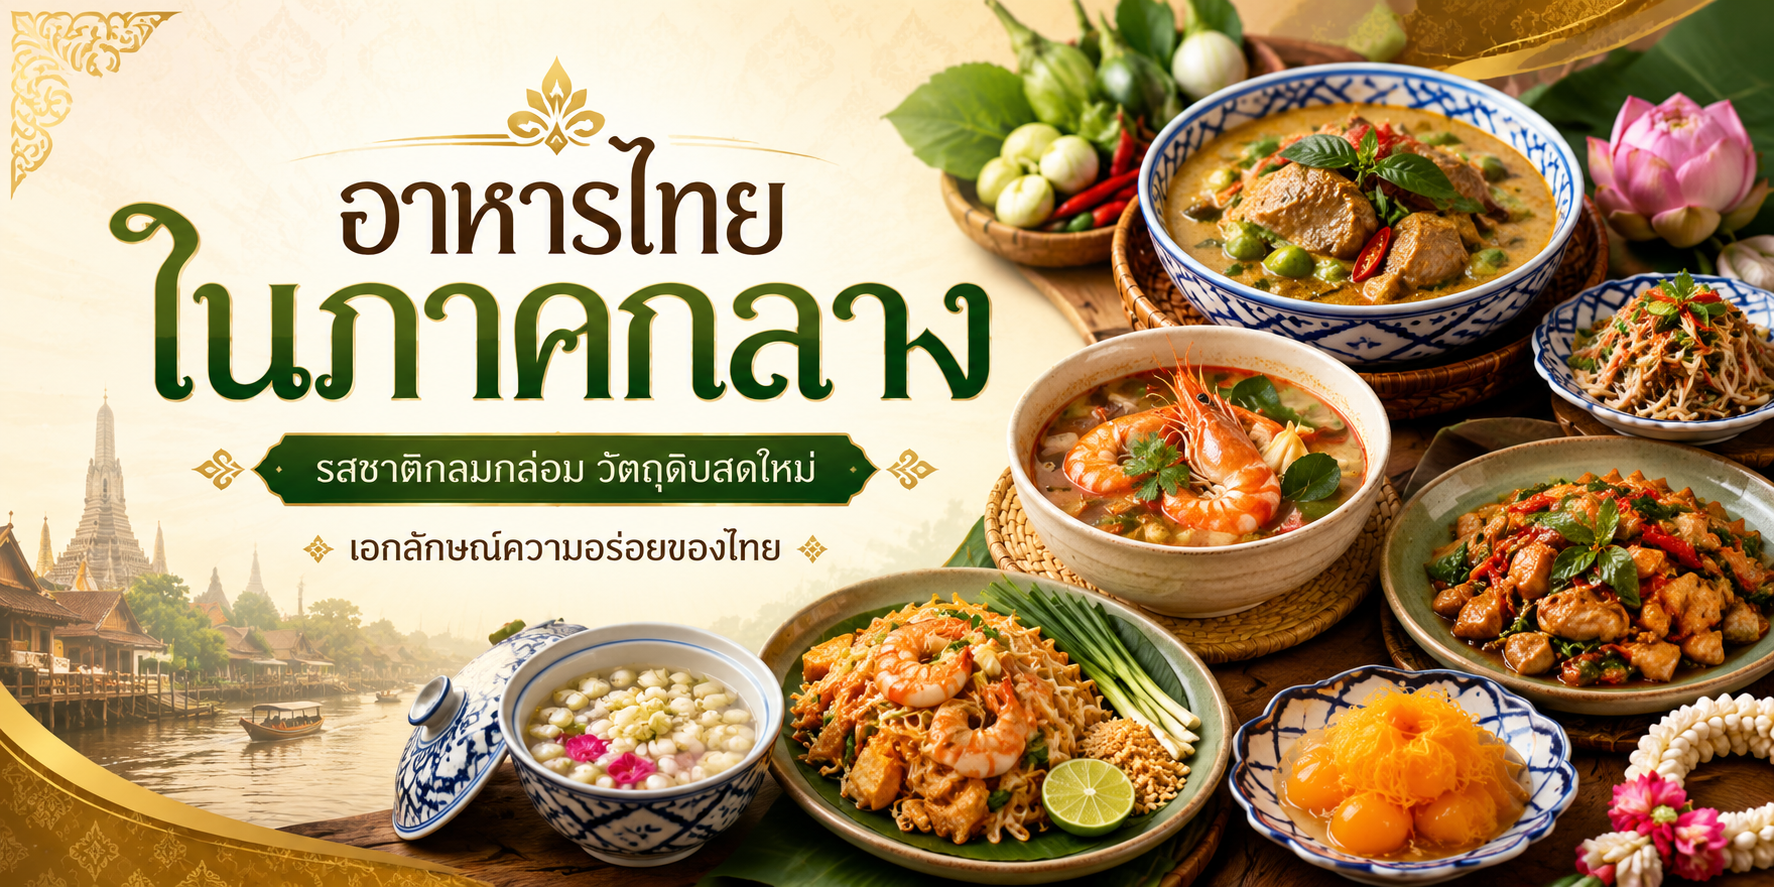
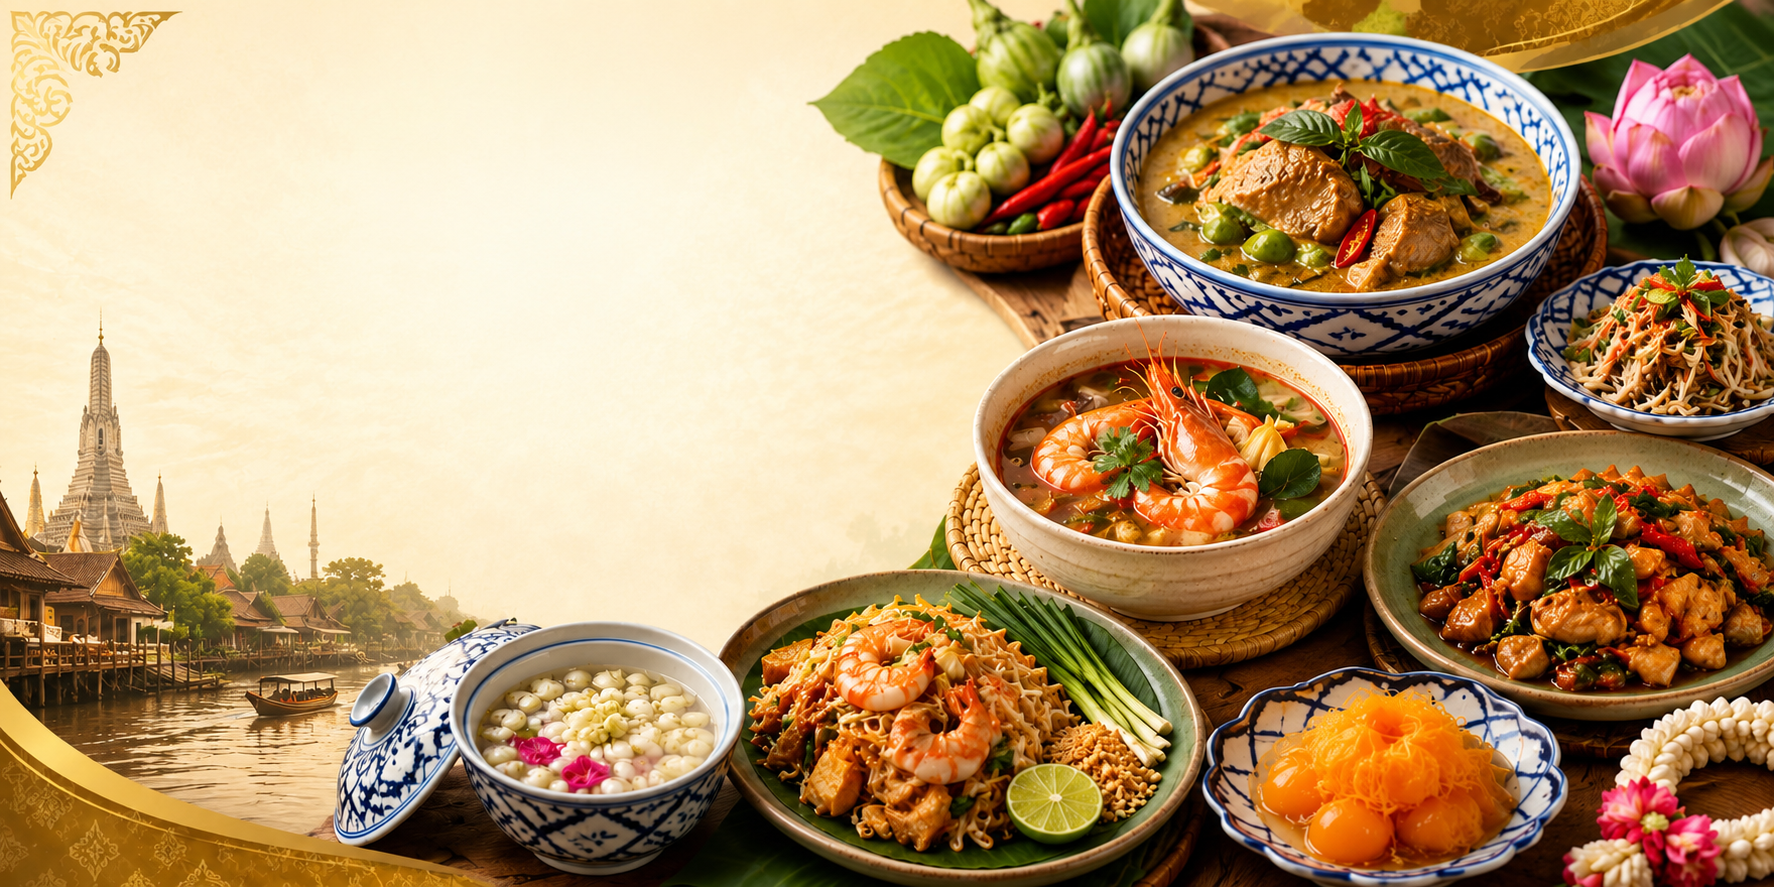
Add files via upload

diff --git a/styles.css b/styles.css
@@ -160,10 +160,38 @@ header {
 
 .banner {
   width: 100%;
+  height: 180px;
   object-fit: cover;
-  animation: fadeDown 1s ease;
+  object-position: center;
+}
+.top-banner {
+  height: 180px;
+  background: linear-gradient(rgba(0, 0, 0, 0.4), rgba(0, 0, 0, 0.4)),
+    url("banner.jpg");
+
+  background-size: cover;
+  background-position: center;
+
+  display: flex;
+  justify-content: center;
+  align-items: center;
+
+  border-radius: 0 0 30px 30px;
+  box-shadow: 0 5px 20px rgba(0, 0, 0, 0.2);
 }
 
+.banner-overlay {
+  text-align: center;
+  color: white;
+}
+
+.banner-overlay h1 {
+  font-size: 3rem;
+}
+
+.banner-overlay p {
+  font-size: 1.2rem;
+}
 /* =========================
    LAYOUT
 ========================= */
@@ -253,7 +281,7 @@ main h1 {
 
 .card-container {
   display: flex;
-  gap: 30px;
+  gap: 50px;
   flex-wrap: wrap;
 }
 
@@ -275,6 +303,7 @@ main h1 {
 
 .card img {
   width: 100%;
+  height: 450;
   object-fit: cover;
   transition: 0.5s;
 }
@@ -478,5 +507,18 @@ footer p {
   .btn {
     width: 250px;
     text-align: center;
+  }
+  @media (max-width: 768px) {
+    .top-banner {
+      height: 140px;
+    }
+
+    .banner-overlay h1 {
+      font-size: 1.7rem;
+    }
+
+    .banner-overlay p {
+      font-size: 0.9rem;
+    }
   }
 }

diff --git a/curry.html b/curry.html
@@ -29,9 +29,6 @@
 
       <main>
         <h1>ประเภทแกง</h1>
-
-        <img src="images/curry.jpg" class="content-img" />
-
         <iframe
           width="500"
           class="food-card"
@@ -44,7 +41,7 @@
           allowfullscreen
         ></iframe>
         <div class="food-card">
-          <img src="images/gaeng-phed.jpg" class="food-img" />
+          <img src="gaeng-phed.jpg" class="food-img" />
           <div class="food-info">
             <h2>แกงเผ็ด</h2>
             <p>
@@ -55,18 +52,7 @@
         </div>
 
         <div class="food-card">
-          <img src="images/gaeng-som.jpg" class="food-img" />
-          <div class="food-info">
-            <h2>แกงส้ม</h2>
-            <p>
-              นิยมใช้ของเค็ม ๆ มัน ๆ เป็นเครื่องแนม เช่น ไข่เจียว ปลาเค็ม
-              ไข่เค็ม และหมูแดดเดียว
-            </p>
-          </div>
-        </div>
-
-        <div class="food-card">
-          <img src="images/gaeng-khilek.jpg" class="food-img" />
+          <img src="gaeng-khilek.jpg" class="food-img" />
           <div class="food-info">
             <h2>แกงขี้เหล็ก</h2>
             <p>นิยมใช้หัวผักกาดยำเค็ม เป็นเครื่องแนม</p>
@@ -74,7 +60,7 @@
         </div>
 
         <div class="food-card">
-          <img src="images/gaeng-kua.jpg" class="food-img" />
+          <img src="gaeng-kua.jpg" class="food-img" />
           <div class="food-info">
             <h2>แกงคั่ว</h2>
             <p>
@@ -85,7 +71,7 @@
         </div>
 
         <div class="food-card">
-          <img src="images/massaman.jpg" class="food-img" />
+          <img src="massaman.jpg" class="food-img" />
           <div class="food-info">
             <h2>แกงมัสมั่น</h2>
             <p>

diff --git a/home.html b/home.html
@@ -7,9 +7,12 @@
     <link rel="stylesheet" href="styles.css" />
   </head>
   <body>
-    <header>
-      <img src="banner.jpg" class="banner" />
-    </header>
+    <header class="top-banner">
+      <div class="banner-overlay">
+          <h1>อาหารไทยและเครื่องแนม</h1>
+          <p>Thai Food & Side Dishes</p>
+      </div>
+  </header>
 
     <div class="container">
       <aside class="sidebar">
@@ -34,11 +37,11 @@
               <h3>อาหารจานเดียว</h3>
             </a>
           </div>
-
           <div class="card">
-            <a href="curry.html">
+            <a href="curry.html" >
               <img src="curry.png" />
               <h3>ประเภทแกง</h3>
+            </div>
             </a>
           </div>
         </div>

diff --git a/about.html b/about.html
@@ -29,8 +29,6 @@
 
       <main>
         <div class="profile-card">
-          <img src="images/profile.jpg" class="profile-img" />
-
           <h1>ผู้จัดทำ</h1>
 
           <h2>ภัทรลภา ศรีมาส</h2>

diff --git a/index.html b/index.html
@@ -8,7 +8,7 @@
   </head>
   <body class="landing">
     <div class="overlay">
-      <h1>เว็บไซต์อาหารไทย</h1>
+      <h1>เว็บไซต์อาหารไทยในภาคกลาง</h1>
       <p>อาหารจานเดียวและประเภทแกง</p>
 
       <div class="btn-group">